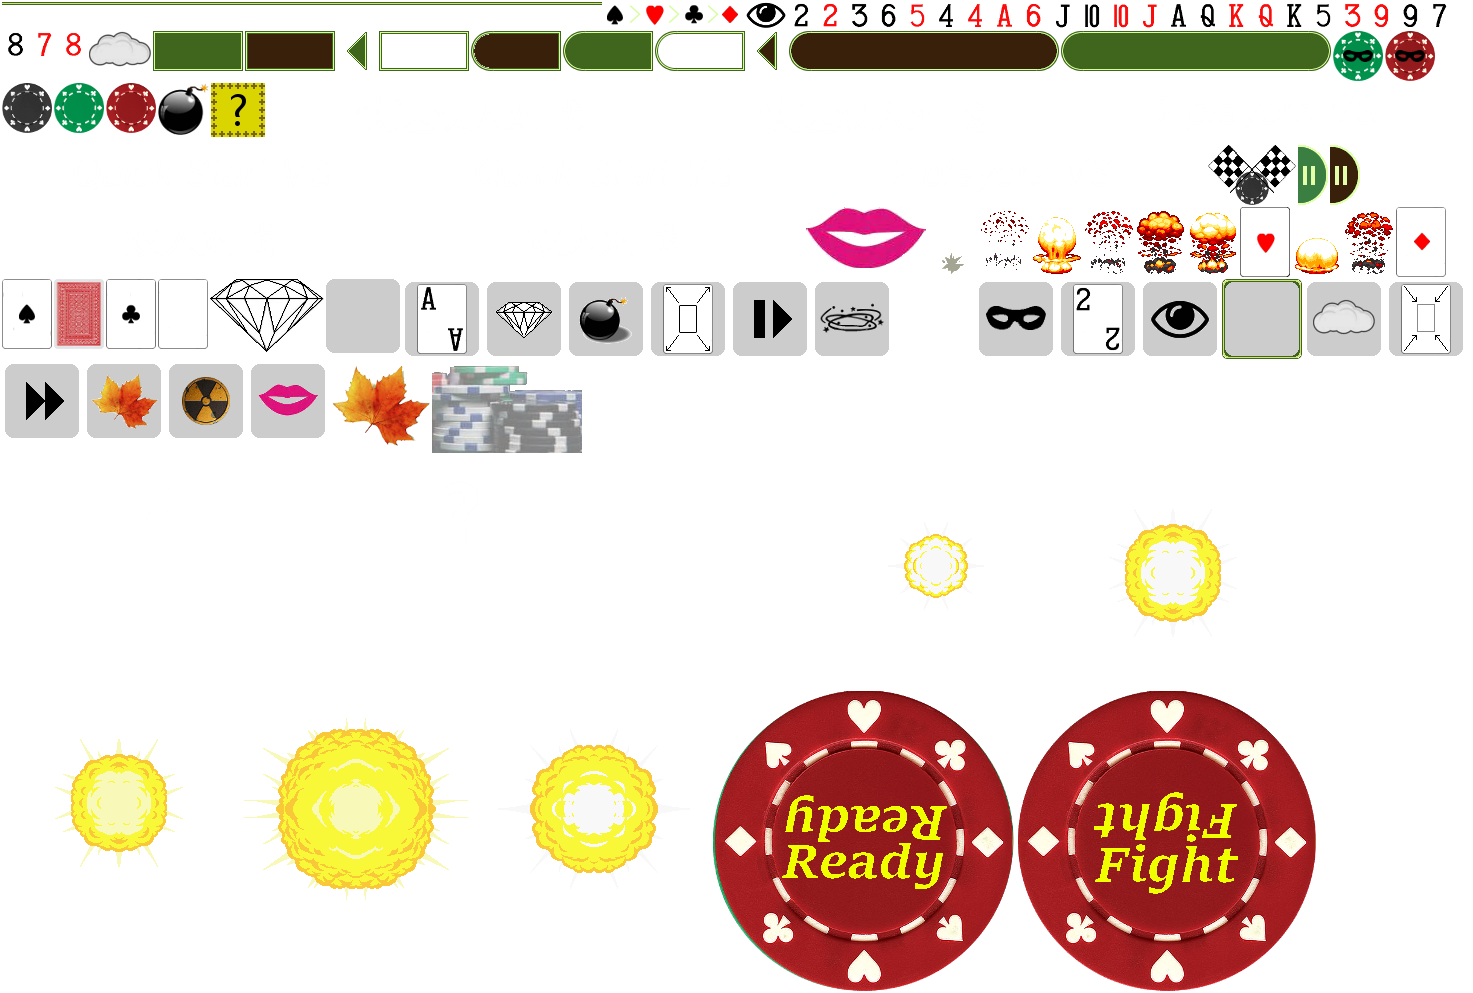
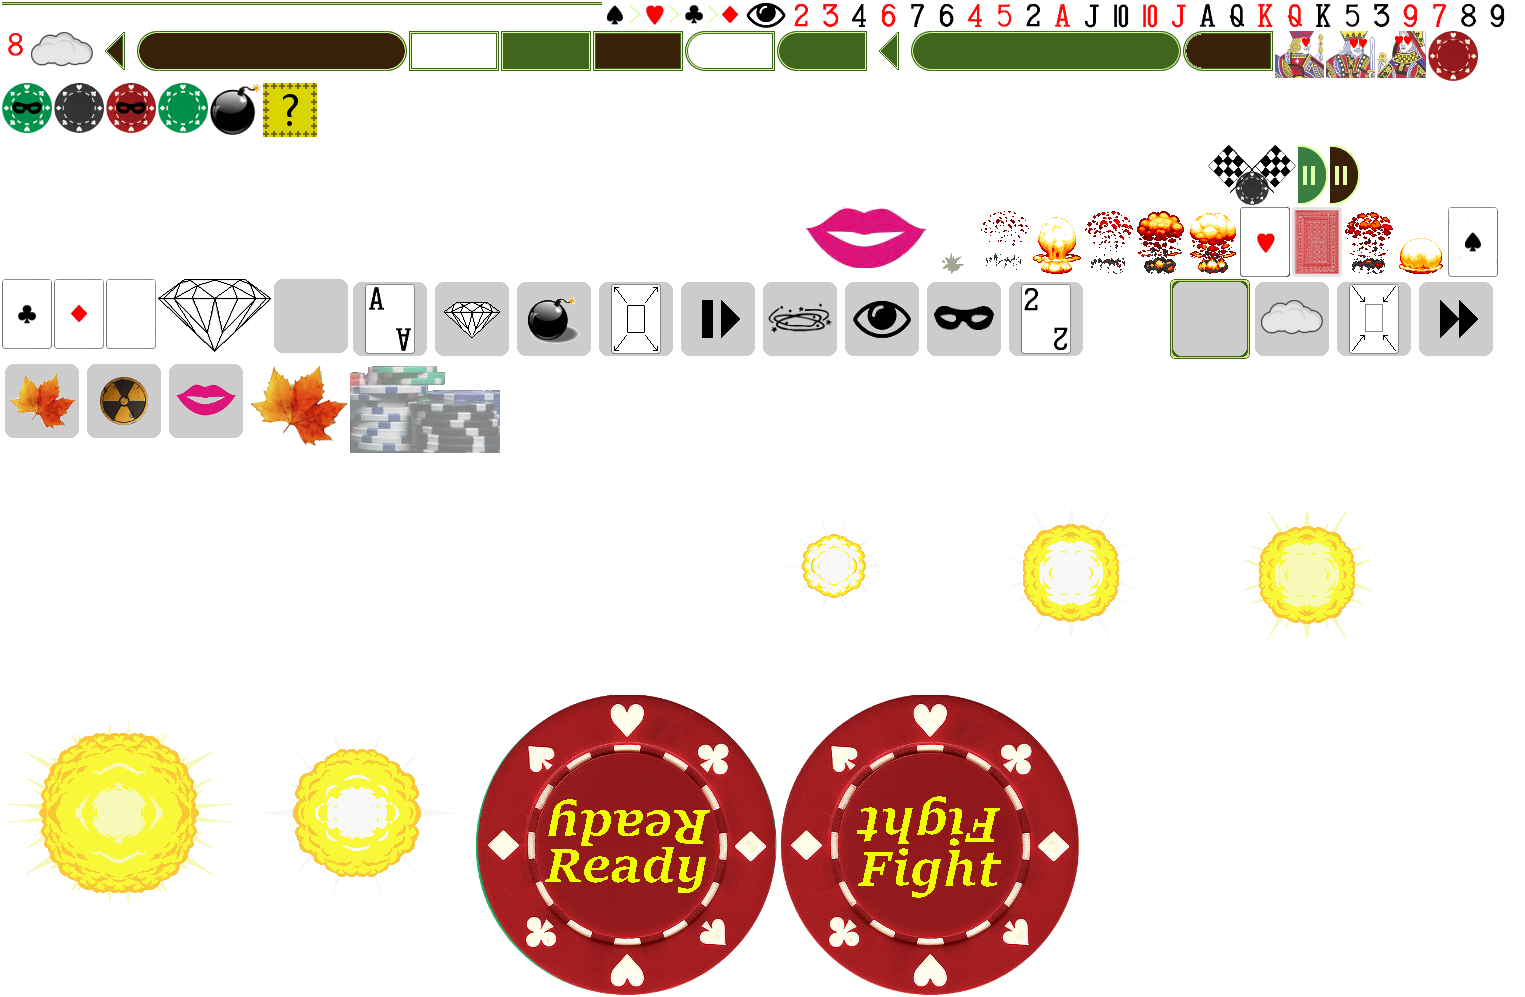
add diamond and kiss effect; improve intro

diff --git a/src/item.js b/src/item.js
@@ -202,6 +202,21 @@ var KissItemModel = ItemModel.extend({
                     sprite.speedY = sy;
                     sprite.speedX = sy * ( sprite.x - cc.winSize.width/2 ) / (sprite.y - playerY);
                     sprite.onTouchRelease();
+
+                    var loveSprite = new cc.Sprite(cc.spriteFrameCache.getSpriteFrame( sprite.model.get("number") == 13 ? "k-in-love.png" : "j-in-love.png"));
+                    loveSprite.attr({
+                        x: sprite.width/2,
+                        y: sprite.height/2
+                    })
+                    sprite.addChild(loveSprite);
+                    loveSprite.runAction(cc.sequence(
+                        cc.scaleTo(0.3,1.3,1.3),
+                        cc.scaleTo(0.1,1,1),
+                        cc.delayTime(0.5),
+                        cc.callFunc(function(){
+                            this.removeFromParent(true);
+                        },loveSprite)
+                    ))
                 }
             }
         });
@@ -248,6 +263,21 @@ var DiamondItemModel = ItemModel.extend({
                     sprite.speedY = sy;
                     sprite.speedX = sy * ( sprite.x - cc.winSize.width/2 ) / (sprite.y - playerY);
                     sprite.onTouchRelease();
+
+                    var loveSprite = new cc.Sprite(cc.spriteFrameCache.getSpriteFrame("q-in-love.png"));
+                    loveSprite.attr({
+                        x: sprite.width/2,
+                        y: sprite.height/2
+                    })
+                    sprite.addChild(loveSprite);
+                    loveSprite.runAction(cc.sequence(
+                        cc.scaleTo(0.3,1.3,1.3),
+                        cc.scaleTo(0.1,1,1),
+                        cc.delayTime(0.5),
+                        cc.callFunc(function(){
+                            this.removeFromParent(true);
+                        },loveSprite)
+                    ))
                 }
             }
         });

diff --git a/src/app.js b/src/app.js
@@ -480,7 +480,7 @@ var MainLayer = cc.LayerColor.extend({
                     if (Math.random() < self.model.get("itemAppearRate")) {
                         self.generateItems.call(self);
                     }
-                    self.model.generateItemCountDown = GENERATE_ITEM_INTERVAL;
+                    self.model.generateItemCountDown = GENERATE_ITEM_INTERVAL-1+Math.round(Math.random()*3);
                 }
                 self.model.generateItemCountDown--;
 
@@ -755,7 +755,7 @@ var GameModel = Backbone.Model.extend({
             new ItemPattern4Model()
         ];
 
-        this.itemPool = ["ace","bomb","cloud","diamond", "dizzy","enlarge","fast","leaf","nuke", "shrink","spy","slow","thief", "two"];
+        this.itemPool = ["ace","bomb","cloud","diamond", "dizzy","enlarge","fast","kiss","leaf","nuke", "shrink","spy","slow","thief", "two"];
         //this.itemPool = ["diamond","kiss"];
     },
     newDeck:function(){

diff --git a/src/poker-card.js b/src/poker-card.js
@@ -63,7 +63,7 @@ var NormalCardSprite = cc.Sprite.extend({
                     //dizzy
                     if ( gameModel.player2.get("dizzy") )
                         this.dizzy();
-                    else this.rotation = 0;
+                    else this.rotation = 180;
                     //touchable change
                     this.touchable = (gameModel.player2.get("type") !== "ai");
                 }, target);
@@ -101,7 +101,7 @@ var NormalCardSprite = cc.Sprite.extend({
                     //dizzy
                     if ( gameModel.player1.get("dizzy") )
                         this.dizzy();
-                    else this.rotation = 180;
+                    else this.rotation = 0;
                     //touchable change
                     this.touchable = (gameModel.player1.get("type") !== "ai");
                 }, target);
